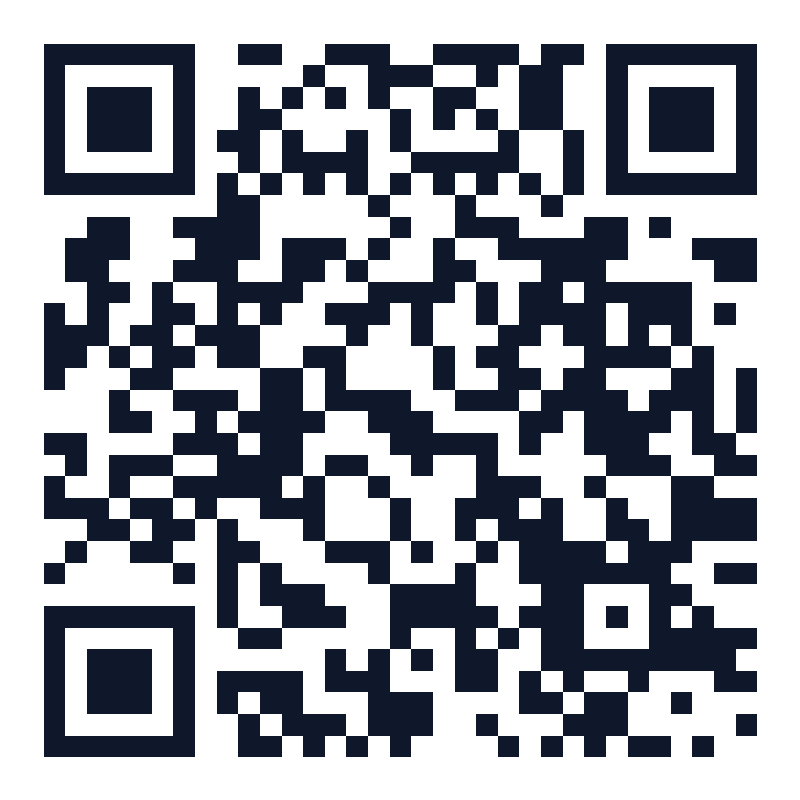
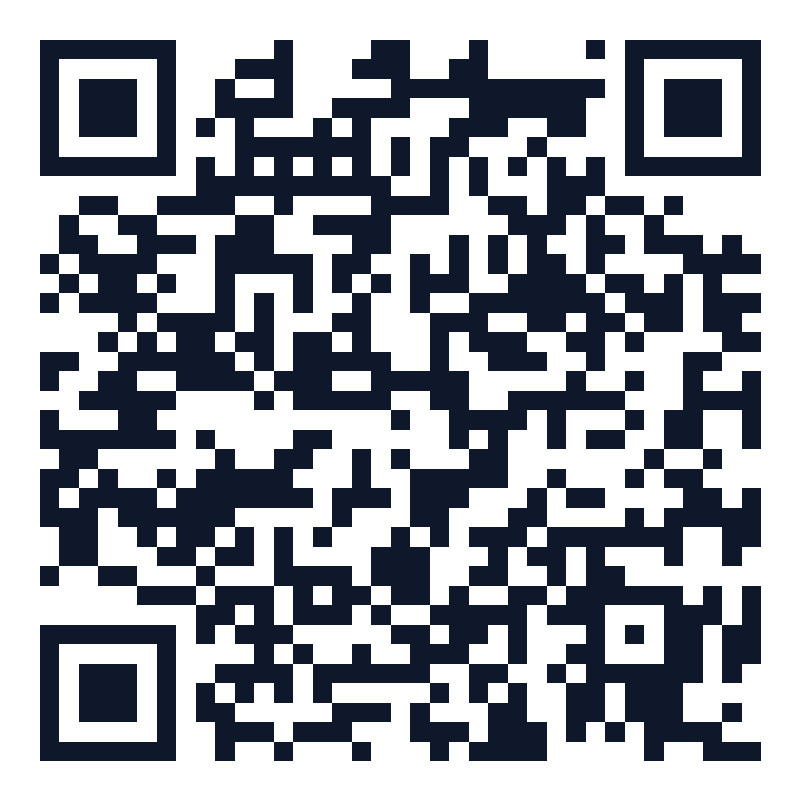
update: configure live Vercel URL and generate final kit QR codes

diff --git a/frontend/admin.html b/frontend/admin.html
@@ -125,6 +125,22 @@
           </div>
         </div>
 
+        <div class="form-group">
+          <label class="form-label" for="backendUrlInput">
+            VPS Backend API URL <span style="font-weight: 400; font-size: 0.8rem; color: var(--text-muted);">(Optional)</span>
+          </label>
+          <div class="input-wrapper">
+            <span class="input-icon">📡</span>
+            <input 
+              type="text" 
+              id="backendUrlInput" 
+              class="form-input" 
+              placeholder="e.g. http://YOUR_VPS_IP:5000"
+            >
+          </div>
+          <div class="form-hint">Points your Vercel frontend to your Hostinger VPS backend.</div>
+        </div>
+
         <button type="submit" id="loginBtn" class="btn btn-primary btn-block">
           <span id="loginBtnText">Sign In to Dashboard →</span>
           <span id="loginSpinner" class="spinner" style="display: none;"></span>

diff --git a/frontend/js/admin.js b/frontend/js/admin.js
@@ -58,6 +58,12 @@ document.addEventListener('DOMContentLoaded', () => {
     loginAlertBox.textContent = msg;
   }
 
+  // Pre-fill backend URL input
+  const backendUrlInput = document.getElementById('backendUrlInput');
+  if (backendUrlInput) {
+    backendUrlInput.value = localStorage.getItem('technula_custom_api_url') || '';
+  }
+
   // Handle Login
   adminLoginForm.addEventListener('submit', async (e) => {
     e.preventDefault();
@@ -65,6 +71,10 @@ document.addEventListener('DOMContentLoaded', () => {
 
     const email = document.getElementById('adminEmail').value.trim();
     const password = document.getElementById('adminPassword').value;
+
+    if (backendUrlInput && backendUrlInput.value.trim()) {
+      localStorage.setItem('technula_custom_api_url', backendUrlInput.value.trim());
+    }
 
     loginBtn.disabled = true;
     loginSpinner.style.display = 'inline-block';

diff --git a/scripts/generate_qr.js b/scripts/generate_qr.js
@@ -25,6 +25,9 @@ async function generate() {
   console.log(terminalString);
 
   // 2. Generate High-Res PNG (800x800 for crystal-clear stickers)
+  try {
+    if (fs.existsSync(rootPngPath)) fs.unlinkSync(rootPngPath);
+  } catch (e) {}
   await QRCode.toFile(rootPngPath, targetUrl, {
     width: 800,
     margin: 2,
@@ -34,6 +37,9 @@ async function generate() {
     },
     errorCorrectionLevel: 'H'
   });
+  try {
+    if (fs.existsSync(assetPngPath)) fs.unlinkSync(assetPngPath);
+  } catch (e) {}
   fs.copyFileSync(rootPngPath, assetPngPath);
 
   // 3. Generate Vector SVG

diff --git a/frontend/sticker.html b/frontend/sticker.html
@@ -144,7 +144,7 @@
       <p style="font-size: 0.85rem; color: #64748b;">Print stickers to paste on your robotics kits.</p>
     </div>
     <div style="display: flex; gap: 10px; align-items: center;">
-      <input type="text" id="targetUrlInput" class="input-box" value="https://eventpdf-qrlink.vercel.app">
+      <input type="text" id="targetUrlInput" class="input-box" value="https://eventpdfqrlink-frontend.vercel.app/">
       <button class="btn" onclick="window.print()">
         <span>🖨</span>
         <span>Print Stickers</span>

diff --git a/README.md b/README.md
@@ -80,10 +80,15 @@ url-pdf/
 
 ## 🚀 Production Deployment
 
-### 1. Frontend on Vercel
-Follow [`frontend/README_VERCEL.md`](file:///c:/Users/roboa/OneDrive/Desktop/url-pdf/frontend/README_VERCEL.md).
-You can deploy the `frontend` folder directly to Vercel via CLI or GitHub integration.
+### 1. Frontend on Vercel (LIVE)
+- **Live Student Registration & Kit Link:** [https://eventpdfqrlink-frontend.vercel.app/](https://eventpdfqrlink-frontend.vercel.app/)
+- **Live PDF Viewer:** [https://eventpdfqrlink-frontend.vercel.app/viewer.html](https://eventpdfqrlink-frontend.vercel.app/viewer.html)
+- **Live Admin Portal:** [https://eventpdfqrlink-frontend.vercel.app/admin.html](https://eventpdfqrlink-frontend.vercel.app/admin.html)
+- **Live Printable Stickers:** [https://eventpdfqrlink-frontend.vercel.app/sticker.html](https://eventpdfqrlink-frontend.vercel.app/sticker.html)
 
-### 2. Backend on Hostinger VPS
+### 2. Backend on Hostinger VPS (Folder: `eventkitqr backend`)
 Follow [`backend/README_BACKEND.md`](file:///c:/Users/roboa/OneDrive/Desktop/url-pdf/backend/README_BACKEND.md).
-Runs effortlessly with `pm2 start ecosystem.config.js` and persists all leads to `data/leads.json`.
+1. SSH into VPS and navigate to or create `eventkitqr backend`.
+2. Run `npm install --production`.
+3. Start process with `pm2 start ecosystem.config.js`.
+4. Persists all student registrations safely into `data/leads.json`.

diff --git a/backend/README_BACKEND.md b/backend/README_BACKEND.md
@@ -19,18 +19,19 @@ sudo npm install -g pm2
 ```
 
 ### 3. Upload or Clone the Backend
-You can upload the `backend/` folder and the PDF `OBSTACLE AVOINDING AND FOLLOWING.pdf` into `/var/www/technula-backend`:
+You can upload the `backend/` files and the PDF into a folder named `eventkitqr backend` (or `/var/www/eventkitqr-backend`):
 ```bash
-mkdir -p /var/www/technula-backend
-cd /var/www/technula-backend
+# Example if cloning repo directly:
+git clone https://github.com/roboaiapaths99/eventpdf_qrlink.git "eventkitqr backend"
+cd "eventkitqr backend/backend"
 ```
-Ensure your directory looks like:
+Or if uploading via Hostinger File Manager into folder `eventkitqr backend`:
 ```
-/var/www/technula-backend/
+eventkitqr backend/
 ├── server.js
 ├── package.json
 ├── ecosystem.config.js
-├── OBSTACLE AVOINDING AND FOLLOWING.pdf
+├── OBSTACLE_AVOINDING_AND_FOLLOWING.pdf
 └── data/
 ```
 
